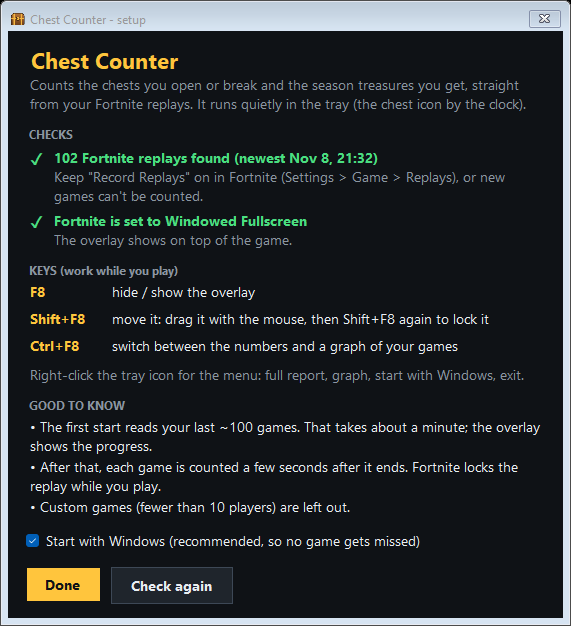
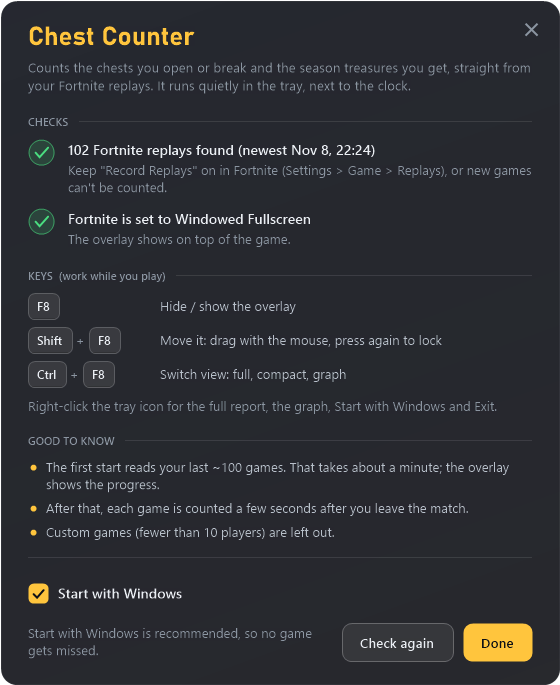
Even spacing above and below the number rows; v1.2 README and screenshots

diff --git a/ChestCounter/OverlayForm.cs b/ChestCounter/OverlayForm.cs
@@ -483,17 +483,26 @@ sealed class OverlayForm : Form
             var scale = widest > 0 ? Math.Clamp(sizeW * fill / widest, 1f, maxScale) : 1f;
             var f = Sized(baseFont, baseFont.Size * scale);
             var numH = GlyphHeight(f);
+            // y is where the visible top of the digits goes; afterwards y is the visible bottom of the labels,
+            // so the gaps above and below the row can be made exactly equal
+            var inkTop = items.Min(h => Glass.Ink(string.IsNullOrEmpty(h.Value) ? "0" : h.Value, f, Typo).Top);
+            var inkBottom = numH + items.Max(h => Glass.Ink(string.IsNullOrEmpty(h.Label) ? "A" : h.Label, _fSmall, Typo).Bottom);
+            var top = y - inkTop;
             for (var i = 0; i < items.Count; i++)
             {
                 var h = items[i];
                 var mid = x0 + i * colW + colW / 2;
                 // centered on the visible ink, so "103" and "5,877" sit exactly over their labels
-                DrawStrF(g, h.Value, f, h.Color ?? Fg, mid - Glass.InkCenter(h.Value, f, Typo), y);
-                DrawStrF(g, h.Label, _fSmall, Dim, mid - Glass.InkCenter(h.Label, _fSmall, Typo), y + numH);
+                DrawStrF(g, h.Value, f, h.Color ?? Fg, mid - Glass.InkCenter(h.Value, f, Typo), top);
+                DrawStrF(g, h.Label, _fSmall, Dim, mid - Glass.InkCenter(h.Label, _fSmall, Typo), top + numH);
             }
-            y += numH + _fSmall.Height;
+            y = (int)Math.Ceiling(top + inkBottom);
         }
+        // the same visible gap above and below each number row: from the panel edge or the divider line
+        int inkPad = Px(11);
+        y = border + inkPad;
         NumberRow(v.Headline, _fBig, 0.72f, 2, 1.35f);
+        y += inkPad - sepPad;
 
         // --- tables ---
         var rowH = Math.Max(_fValue.Height, _fText.Height) + Px(1);
@@ -541,8 +550,9 @@ sealed class OverlayForm : Form
         {
             y += sepPad;
             HLine(g, x0, right, y);
-            y += Px(1) + sepPad;
+            y += Px(1) + inkPad;
             NumberRow(v.Headline2, _fMid, 0.55f, 3, 1.45f);
+            y += inkPad - padY;   // the end adds padY back, so the bottom gap is inkPad
         }
 
         // --- status + hint ---

diff --git a/ChestCounter/Glass.cs b/ChestCounter/Glass.cs
@@ -19,20 +19,30 @@ static class Glass
     /// </summary>
     public static float InkCenter(string s, Font f, StringFormat format)
     {
+        var b = Ink(s, f, format);
+        return b.Width > 0 ? b.X + b.Width / 2 : 0;
+    }
+
+    /// <summary>
+    /// The box around the visible ink of the text, relative to the drawing position (font must be in pixels).
+    /// Fonts leave room above for accents and below for letters like "g", so the drawn box has empty space
+    /// that's uneven above and below; this is the part you actually see.
+    /// </summary>
+    public static RectangleF Ink(string s, Font f, StringFormat format)
+    {
         var key = (s, f.FontFamily.Name, f.Style, f.Size);
         lock (InkCache)
         {
-            if (InkCache.TryGetValue(key, out var c)) return c;
+            if (InkCache.TryGetValue(key, out var b)) return b;
             using var p = new GraphicsPath();
-            p.AddString(s, f.FontFamily, (int)f.Style, f.Size, PointF.Empty, format);
-            var b = p.GetBounds();
-            c = b.Width > 0 ? b.X + b.Width / 2 : 0;
+            if (!string.IsNullOrEmpty(s)) p.AddString(s, f.FontFamily, (int)f.Style, f.Size, PointF.Empty, format);
+            b = p.PointCount > 0 ? p.GetBounds() : RectangleF.Empty;
             if (InkCache.Count > 2000) InkCache.Clear();
-            InkCache[key] = c;
-            return c;
+            InkCache[key] = b;
+            return b;
         }
     }
-    static readonly Dictionary<(string, string, FontStyle, float), float> InkCache = new();
+    static readonly Dictionary<(string, string, FontStyle, float), RectangleF> InkCache = new();
 
     public static GraphicsPath Rounded(RectangleF r, float radius)
     {

diff --git a/README.md b/README.md
@@ -4,9 +4,9 @@ A small see-through overlay that counts the chests you open or break in Fortnite
 
 It sits in the tray and updates a few seconds after each game ends.
 
-![The overlay: numbers page and graph page (Ctrl+F8)](docs/overlay.png)
+![The overlay: full, compact and graph views (Ctrl+F8)](docs/overlay.png)
 
-*Left: the numbers page, with the gold dot showing you're in a game. Right: chests per game (Ctrl+F8). Only the background is see-through; the numbers stay solid.*
+*The three views, switched with Ctrl+F8: full (the gold dot means you're in a game), compact, and chests per game. Only the background is see-through; the numbers stay solid.*
 
 ## Download
 
@@ -26,12 +26,13 @@ On the first start, a setup window checks two things and explains the keys:
 | --- | --- |
 | F8 | Hide / show the overlay |
 | Shift+F8 | Move it: drag it with the mouse, then Shift+F8 again to lock it |
-| Ctrl+F8 | Switch between the numbers and a graph of chests per game |
+| Ctrl+F8 | Switch view: full, compact (just the main numbers), or a graph of chests per game |
 
 Right-click the tray icon for the full report, Start with Windows, and more.
 
 ## What it counts
 
+- **Which chests:** normal chests, rare chests, relic chests, buried treasure and booty chests. Not ammo boxes, supply drops or loot cannons.
 - **Opened chests:** exact. The replay records who opened every chest.
 - **Destroyed chests:** worked out from rockets, hits, or whoever was standing closest.
 - **Season treasure:** every prize gives your character a hidden "prize handler" in the replay.
